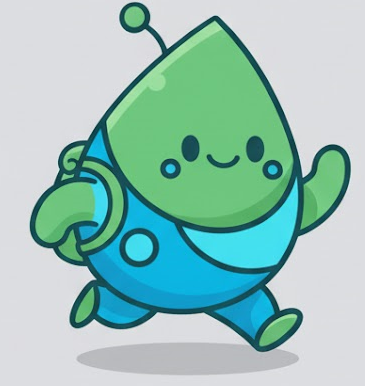
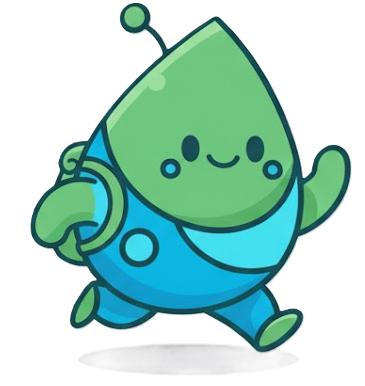
style: duninho hero

diff --git a/front-end/src/pages/HomePage.tsx b/front-end/src/pages/HomePage.tsx
@@ -10,11 +10,22 @@ const heroImages = [
   'https://diariodorn.com.br/wp-content/uploads/2024/05/titulo.png',
 ]
 
+const duninhoImages = [
+  '/images/duninho/Duninho.png',
+  '/images/duninho/Duninho-acena.png',
+  '/images/duninho/duninho-cajado.png',
+  '/images/duninho/duninho-correndo.png',
+  '/images/duninho/duninho-lupa.png',
+  '/images/duninho/duninho-mapa.png',
+  '/images/duninho/duninho-skate.png',
+]
+
 function HomePage({ navigation, onNavigate }: PageProps) {
   const { content } = useTranslation()
   const home = content.home
   const [activeTestimonial, setActiveTestimonial] = useState(0)
   const [activeHeroImage, setActiveHeroImage] = useState(0)
+  const [activeDuninho, setActiveDuninho] = useState(0)
   const [trailCards, setTrailCards] = useState(home.trails.items)
   const [wildlifeCards, setWildlifeCards] = useState(home.wildlife.items)
   const testimonials = home.testimonials.items
@@ -118,6 +129,18 @@ function HomePage({ navigation, onNavigate }: PageProps) {
     return () => window.clearInterval(interval)
   }, [])
 
+  useEffect(() => {
+    if (duninhoImages.length <= 1) {
+      return undefined
+    }
+
+    const interval = window.setInterval(() => {
+      setActiveDuninho((current) => (current + 1) % duninhoImages.length)
+    }, 4000)
+
+    return () => window.clearInterval(interval)
+  }, [])
+
   return (
     <div className="home-page" id="home">
       <header className="hero">
@@ -149,6 +172,19 @@ function HomePage({ navigation, onNavigate }: PageProps) {
             </button>
           </div>
         </div>
+        {duninhoImages.length > 0 && (
+          <div className="hero-mascot" aria-hidden="true">
+            <div className="hero-mascot__disk" />
+            {duninhoImages.map((image, index) => (
+              <div
+                key={image}
+                className={`hero-mascot__image ${index === activeDuninho ? 'is-active' : ''}`}
+              >
+                <img src={image} alt="" decoding="async" />
+              </div>
+            ))}
+          </div>
+        )}
       </header>
 
       <main>

diff --git a/front-end/src/App.css b/front-end/src/App.css
@@ -98,6 +98,69 @@ section {
   background: linear-gradient(120deg, rgba(12, 52, 33, 0.72), rgba(11, 79, 57, 0.62));
 }
 
+.hero-mascot {
+  position: absolute;
+  bottom: clamp(1.25rem, 5vw, 3.5rem);
+  right: clamp(0.75rem, 6vw, 4.5rem);
+  width: clamp(180px, 28vw, 360px);
+  aspect-ratio: 1 / 1.15;
+  display: grid;
+  place-items: end center;
+  pointer-events: none;
+  z-index: 2;
+}
+
+.hero-mascot__disk {
+  position: absolute;
+  bottom: clamp(-1.5rem, -2vw, -1rem);
+  left: 50%;
+  width: clamp(140px, 22vw, 320px);
+  height: clamp(60px, 10vw, 120px);
+  transform: translate(-50%, 45%);
+  background: radial-gradient(
+    ellipse at center,
+    rgba(99, 201, 158, 0.6) 0%,
+    rgba(28, 112, 78, 0.25) 55%,
+    rgba(8, 34, 24, 0) 100%
+  );
+  filter: blur(8px);
+  border-radius: 999px;
+  z-index: 0;
+}
+
+.hero-mascot__image {
+  position: absolute;
+  inset: auto 0 0 0;
+  display: flex;
+  align-items: flex-end;
+  justify-content: center;
+  opacity: 0;
+  filter: blur(18px);
+  transform: translateY(18px) scale(0.94);
+  transition: opacity 0.45s ease, filter 0.3s ease, transform 0.45s ease;
+  z-index: 1;
+}
+
+.hero-mascot__image.is-active {
+  opacity: 1;
+  filter: blur(0px);
+  transform: translateY(0) scale(1);
+}
+
+.hero-mascot__image img {
+  display: block;
+  width: 100%;
+  height: auto;
+  max-height: 100%;
+  object-fit: contain;
+}
+
+@media (max-width: 1024px) {
+  .hero-mascot {
+    display: none;
+  }
+}
+
 .hero .brand {
   color: inherit;
 }
